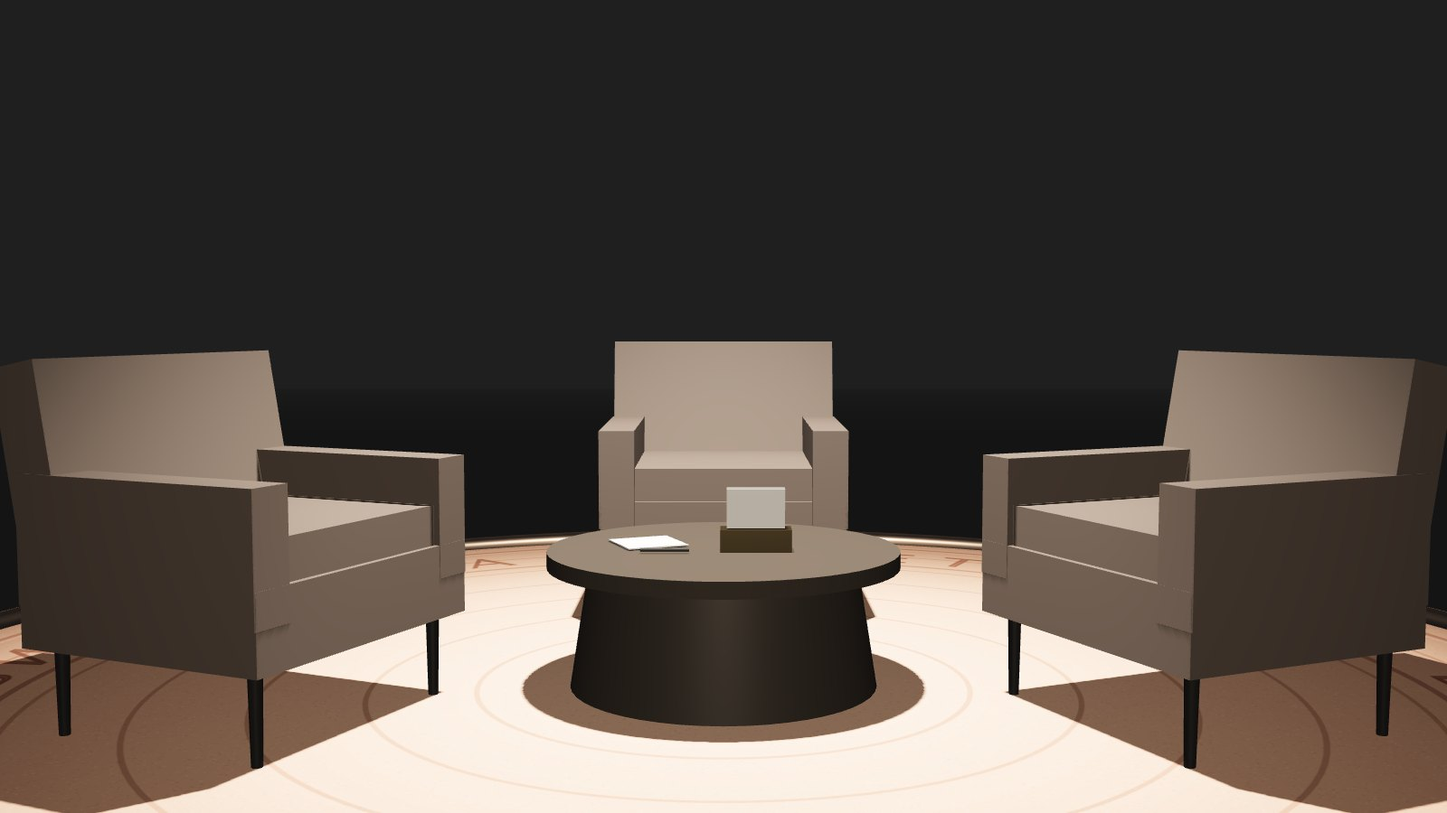
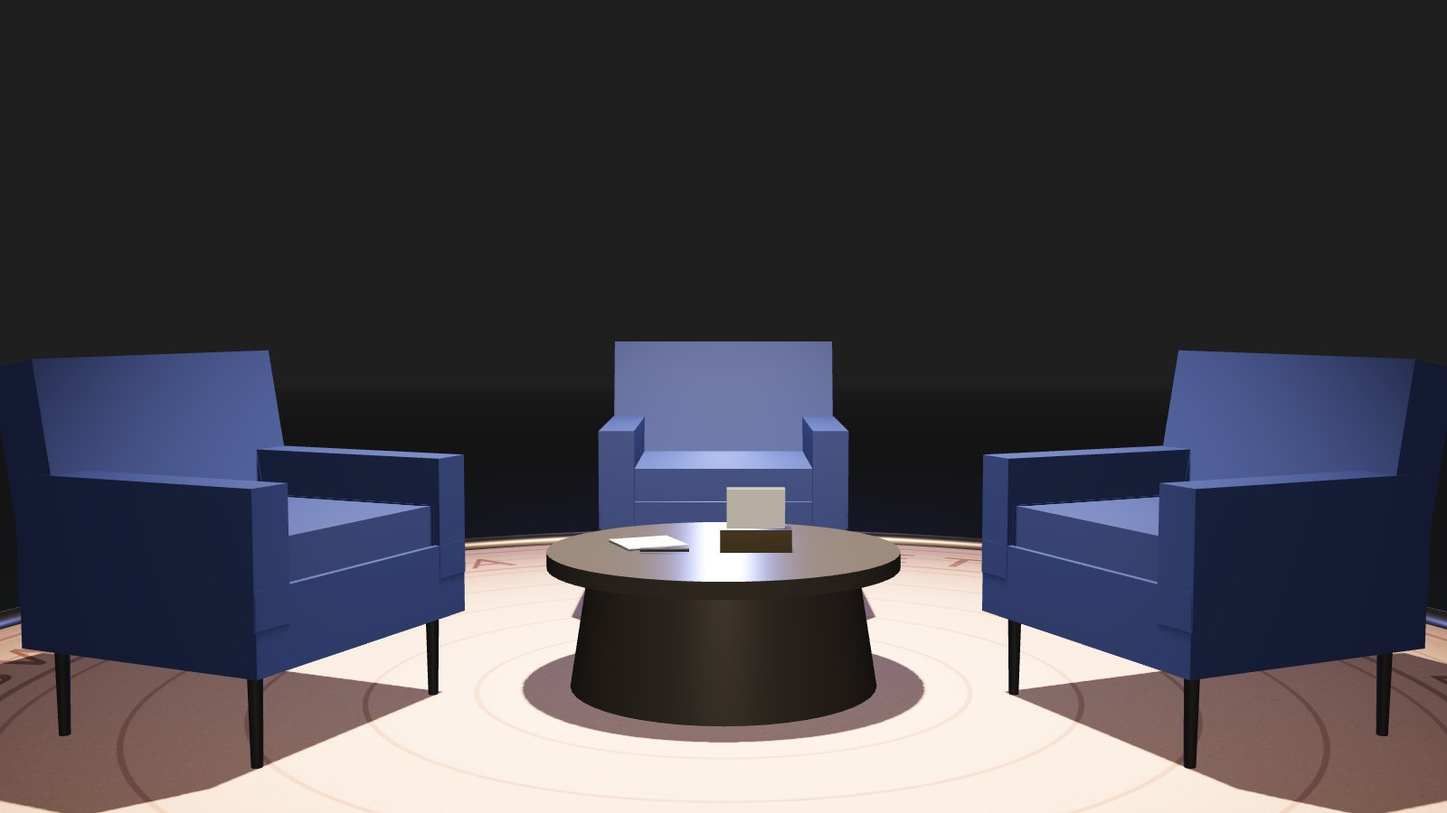
Чернила: светлая студия с синей дорожкой, синий в Кольце
Claude-Session: https://claude.ai/code/session_01JqA9mxb2UcCAa9NfNrfw51

diff --git a/index.html b/index.html
@@ -378,7 +378,7 @@ a:focus-visible{outline:2px solid var(--glow);outline-offset:3px;border-radius:6
   <p class="lead rv">В обеих концепциях Михаил и гость сидят в креслах лицом к камере, между ними журнальный столик с фирменной салфетницей шоу. Третье кресло стоит наготове для второго гостя. <b>Под каждый выпуск меняется то, что окружает разговор.</b></p>
   <div class="idx">
     <a class="rv" href="#ring"><img src="ring_kg.jpg" alt=""><span class="n">01</span><h3 style="font-family:var(--r-disp);font-weight:600">Кольцо</h3><p>Кольцо света над круглым подиумом, покрытие подиума меняется под гостя.</p></a>
-    <a class="rv" href="#ink"><img src="studio.jpg" alt="" style="filter:brightness(.7) saturate(.8)"><span class="n">02</span><h3 style="font-family:var(--r-hand);font-weight:700;font-size:56px;color:#a9bbff">Чернила</h3><p>Текущая студия: фирменный синий становится цветом чернил, на стене подписанные салфетки гостей.</p></a>
+    <a class="rv" href="#ink"><img src="ink_wide.jpg" alt=""><span class="n">02</span><h3 style="font-family:var(--r-hand);font-weight:700;font-size:56px;color:#a9bbff">Чернила</h3><p>Светлая симметричная студия и одна синяя дорожка цвета чернил через весь кадр.</p></a>
   </div>
   <div class="two block">
     <div><div class="eyebrow rv">Общий предмет</div><h3 class="rv" style="margin-top:14px">Салфетница шоу.</h3></div>
@@ -438,9 +438,9 @@ a:focus-visible{outline:2px solid var(--glow);outline-offset:3px;border-radius:6
       <h3 class="h3 rv">Номера совпадают с точками на 3D схеме.</h3>
       <div class="legend">
         <div class="rv"><i>1</i><div><h4>Световое кольцо</h4><p>Около 4 м в диаметре, теплый свет 3200К, висит на высоте 3,5 м.</p></div></div>
-        <div class="rv"><i>2</i><div><h4>Сменный подиум</h4><p>Круглая платформа 5,5 м и высотой 18 см. Покрытие собирается из сменных секторов.</p></div></div>
+        <div class="rv"><i>2</i><div><h4>Сменный подиум</h4><p>Круглая платформа 5,5 м и высотой 18 см. Покрытие собирается из сменных секторов, обод глубокого фирменного синего, по полу вокруг идет тонкая линия синего света.</p></div></div>
         <div class="rv"><i>3</i><div><h4>Столик и салфетница</h4><p>Низкий круглый столик, на нем латунная салфетница шоу.</p></div></div>
-        <div class="rv"><i>4</i><div><h4>Кресла</h4><p>Два кресла развернуты друг к другу и к камере. Третье стоит у дальнего края, когда гостей двое.</p></div></div>
+        <div class="rv"><i>4</i><div><h4>Кресла</h4><p>Кресла в темно синем бархате. Два развернуты друг к другу и к камере. Третье стоит у дальнего края, когда гостей двое.</p></div></div>
         <div class="rv"><i>5</i><div><h4>Черный пол</h4><p>Полированное покрытие вокруг подиума отражает кольцо и дает залу глубину.</p></div></div>
         <div class="rv"><i class="c">A</i><div><h4>Камеры</h4><p>A общий план, B и C крупные планы, D сверху над столиком, E вертикаль для shorts.</p></div></div>
       </div>
@@ -488,7 +488,7 @@ a:focus-visible{outline:2px solid var(--glow);outline-offset:3px;border-radius:6
           <div class="spec rv"><span class="aa" style="font-family:var(--r-text);font-weight:600">Аа</span><span class="nm">Onest</span><p>Плашки, роли, субтитры. Спокойный гротеск, хорошо читается на телевизоре.</p></div>
           <div class="spec rv"><span class="aa" style="font-family:var(--r-hand);font-weight:700;color:var(--glow)">245</span><span class="nm">Caveat</span><p>Только цифры. Почерк повторяет запись Михаила на салфетке.</p></div>
         </div>
-        <div class="spec rv"><span class="nm">Палитра</span><div class="pal"><span><i style="background:#0b0b0c"></i>Ночь #0B0B0C</span><span><i style="background:#ffe4c4"></i>Свет #FFE4C4</span><span><i style="background:#ffd29a"></i>Накал #FFD29A</span><span><i style="background:#8e8b85"></i>Пепел #8E8B85</span><span><i style="background:#e6b49c"></i>Цвет гостя</span></div><p>Цвет гостя живет только на подиуме. Графика всегда остается в цветах света.</p></div>
+        <div class="spec rv"><span class="nm">Палитра</span><div class="pal"><span><i style="background:#0b0b0c"></i>Ночь #0B0B0C</span><span><i style="background:#ffe4c4"></i>Свет #FFE4C4</span><span><i style="background:#ffd29a"></i>Накал #FFD29A</span><span><i style="background:#0c1a66"></i>Синий шоу #0C1A66</span><span><i style="background:#e6b49c"></i>Цвет гостя</span></div><p>Цвет гостя живет только на подиуме. Графика всегда остается в цветах света.</p></div>
       </div>
       <div class="frames">
         <div class="fr rv"><div class="scr anim"><img src="ring_kg_two.jpg" alt=""><div class="r-lt"><svg viewBox="0 0 60 60"><circle cx="30" cy="30" r="25"/></svg><div class="txt"><div class="nm">Катя Голден</div><div class="rl">телеведущая, основательница бьюти бренда</div></div></div></div><p class="t"><b>Плашка гостя.</b> Кольцо прорисовывается, имя выезжает следом. Без подложки, только свет и текст.</p></div>
@@ -550,39 +550,50 @@ a:focus-visible{outline:2px solid var(--glow);outline-offset:3px;border-radius:6
   <header class="ch-head wrap">
     <div class="n rv">НАПРАВЛЕНИЕ 02</div>
     <h2 class="rv">Чернила</h2>
-    <p class="thesis rv"><b>Студия остается, фирменный синий становится цветом чернил.</b> Сохраняем логотип, шрифт, сине белую палитру и бумажную концепцию. Меняем свет, декор и графику.</p>
+    <p class="thesis rv"><b>Светлая студия и одна синяя линия чернил через весь кадр.</b> Фирменная сине белая палитра, логотип и рукописные заметки шоу собраны в спокойную симметричную композицию.</p>
   </header>
-  <div class="wrap"><div class="ink-scene rv">
-    <img src="studio.jpg" alt="Текущая студия шоу в синем свете">
-    <div class="tint"></div>
-    <span class="pt" style="left:50%;top:14%">1</span>
-    <span class="pt" style="left:18%;top:30%">2</span>
-    <span class="pt" style="left:50%;top:78%">3</span>
-    <span class="pt" style="left:82%;top:40%">4</span>
-    <span class="pt" style="left:30%;top:62%">5</span>
-    <span class="tag">Набросок на кадре текущей студии</span>
-  </div><p class="stage-note">Точки на кадре совпадают с номерами в списке ниже.</p></div>
+  <div class="wrap"><div class="stage rv" data-scene="ink" aria-label="3D схема сета Чернила, перетаскивайте для поворота">
+    <div class="chips variants" role="group" aria-label="Записи на полу под гостя">
+      <button type="button" data-v="3" aria-pressed="false"><i style="background:#eeb7a6"></i>Катя Голден</button>
+      <button type="button" data-v="0" aria-pressed="true"><i style="background:#1d3592"></i>Базовый</button>
+      <button type="button" data-v="1" aria-pressed="false"><i style="background:#f29dbd"></i>Frambini</button>
+      <button type="button" data-v="2" aria-pressed="false"><i style="background:#8e8b85"></i>Пулково</button>
+    </div>
+    <div class="chips seats" role="group" aria-label="Количество кресел"><button type="button" data-s="2" aria-pressed="true">2 кресла</button><button type="button" data-s="3" aria-pressed="false">3 кресла</button></div>
+    <div class="hud"><span><i></i>элементы сета</span><span><i class="c"></i>камеры</span></div>
+  </div><p class="stage-note">Переключайте гостей сверху и число кресел внизу. Схему можно вращать. Белые точки отмечают элементы сета, синие камеры.</p></div>
 
   <section class="wrap" style="padding-top:clamp(64px,9vw,110px)"><div class="in">
     <div class="two">
-      <div><div class="eyebrow rv">Идея</div><h3 class="rv" style="margin-top:14px">Синий цвет шоу превращается в цвет шариковой ручки.</h3></div>
+      <div><div class="eyebrow rv">Идея</div><h3 class="rv" style="margin-top:14px">Белая салфетка и одна линия синих чернил.</h3></div>
       <div class="prose rv">
-        <p>Главный предмет шоу уже есть: салфетка, на которой гость пишет от руки. Самые знакомые всем синие на белом это чернила шариковой ручки. <b>Фирменная сине белая палитра шоу остается и получает понятный зрителю смысл: синие чернила на белой салфетке.</b></p>
-        <p>Мебель, планировку и логотип мы сохраняем. Студия уходит в полумрак, лица освещает теплый свет, фон получает глубокий синий свет цвета чернил. Стену за собеседниками занимают салфетки, подписанные гостями прошлых выпусков.</p>
-        <p>Работы немного: свет, рамы, несколько предметов и обновленная графика. Перестройка студии не нужна.</p>
+        <p>Фирменные цвета шоу синий и белый. Самое знакомое всем сочетание синего и белого это линия шариковой ручки на салфетке. <b>Студия становится белой салфеткой, через которую проходит одна синяя линия: дорожка цвета чернил, на которой стоят кресла.</b></p>
+        <p>Комната светлая и теплая: молочные шторы по кругу, светлый пол, мягкий дневной свет. Композиция строго симметричная, как в кадре шахматного поединка: два кресла лицом друг к другу, между ними столик с именами собеседников. Пальмы из текущей студии остаются, но переезжают в белые вазоны по краям кадра.</p>
+        <p>Синий в кадре только один и глубокий, цвета чернил. Он работает акцентом на белом и не превращает студию в синюю комнату, поэтому не напоминает ВК.</p>
       </div>
     </div>
 
     <div class="block">
-      <div class="eyebrow rv">Что меняем</div>
-      <h3 class="h3 rv">Пять точечных усилений.</h3>
+      <div class="eyebrow rv">Устройство сета</div>
+      <h3 class="h3 rv">Номера совпадают с точками на 3D схеме.</h3>
       <div class="legend">
-        <div class="rv"><i>1</i><div><h4>Свет</h4><p>Теплый рисующий свет на лица, глубокий синий контровой свет на фон. Студия выглядит дороже без новой мебели.</p></div></div>
-        <div class="rv"><i>2</i><div><h4>Стена салфеток</h4><p>Подписанные гостями салфетки в одинаковых рамах. С каждым выпуском стена растет и превращается в архив шоу.</p></div></div>
-        <div class="rv"><i>3</i><div><h4>Столик и салфетница</h4><p>Латунная салфетница с гравировкой и синяя ручка рядом. Михаил достает салфетку, когда просит гостя записать цифру.</p></div></div>
-        <div class="rv"><i>4</i><div><h4>Синий акцент в декоре</h4><p>Кобальтовое стекло или керамика на полках, глубокий синий текстиль. Оттенок чернил, глубже и темнее интерфейсного синего.</p></div></div>
-        <div class="rv"><i>5</i><div><h4>Подсветка логотипа</h4><p>Фирменный логотип остается на месте и получает мягкую синюю подсветку.</p></div></div>
-        <div class="rv"><i class="c">A</i><div><h4>Камеры</h4><p>Добавляем камеру сверху на столик, чтобы показывать запись на салфетке крупно.</p></div></div>
+        <div class="rv"><i>1</i><div><h4>Синяя дорожка</h4><p>Ковровая дорожка глубокого чернильного цвета шириной 1,5 м через весь кадр, по краям тонкая белая строчка.</p></div></div>
+        <div class="rv"><i>2</i><div><h4>Таблички с именами</h4><p>На передней грани столика имена Михаила и гостя синими чернилами. Меняются под каждого гостя и сразу представляют собеседников.</p></div></div>
+        <div class="rv"><i>3</i><div><h4>Столик и салфетница</h4><p>Низкий белый столик, латунная салфетница с салфетками и синяя ручка.</p></div></div>
+        <div class="rv"><i>4</i><div><h4>Пальмы в белых вазонах</h4><p>Знакомые зрителю пальмы стоят симметрично по краям и держат баланс кадра.</p></div></div>
+        <div class="rv"><i>5</i><div><h4>Молочные шторы</h4><p>Мягкие складки по кругу, светлый пол. Логотип шоу появляется в графике и на салфетнице.</p></div></div>
+        <div class="rv"><i class="c">A</i><div><h4>Камеры</h4><p>A общий симметричный план, B и C крупные планы, D сверху на дорожку и столик, E вертикаль для shorts.</p></div></div>
+      </div>
+    </div>
+
+    <div class="block">
+      <div class="eyebrow rv">Под каждого гостя</div>
+      <h3 class="h3 rv">Студия та же, имена на столике новые.</h3>
+      <div class="gal">
+        <figure class="rv"><img src="ink_wide.jpg" alt="Светлая студия с синей дорожкой"><figcaption><b>Общий план.</b> Синяя дорожка через светлую студию.</figcaption></figure>
+        <figure class="rv"><img src="ink_top.jpg" alt="Вид сверху на синюю дорожку"><figcaption><b>Вид сверху.</b> Линия чернил, кресла и столик, готовая обложка.</figcaption></figure>
+        <figure class="rv"><img src="ink_kg.jpg" alt="Студия Чернила в выпуске с Катей Голден"><figcaption><b>Катя Голден.</b> Симметричный общий план, имена на столике.</figcaption></figure>
+        <figure class="rv"><img src="ink_two.jpg" alt="Столик с табличками имен"><figcaption><b>Frambini.</b> Таблички с именами крупно.</figcaption></figure>
       </div>
     </div>
 
@@ -599,7 +610,7 @@ a:focus-visible{outline:2px solid var(--glow);outline-offset:3px;border-radius:6
       <div class="eyebrow rv">Как идет выпуск</div>
       <div class="flow">
         <div class="rv"><span class="t">00:00</span><h4>Фраза гостя</h4><p>Выпуск открывается главной фразой гостя. На экране она появляется синими чернилами, как запись от руки.</p></div>
-        <div class="rv"><span class="t">00:08</span><h4>Разговор</h4><p>Собеседники в знакомых креслах, за ними стена подписанных салфеток.</p></div>
+        <div class="rv"><span class="t">00:08</span><h4>Разговор</h4><p>Собеседники на синей дорожке в симметричном светлом кадре.</p></div>
         <div class="rv"><span class="t">Цифры</span><h4>Запись на салфетке</h4><p>Михаил записывает цифру, камера сверху показывает ее крупно.</p></div>
         <div class="rv"><span class="t">Финал</span><h4>Салфетка на стену</h4><p>Гость подписывает салфетку с тремя факторами успеха, и она отправляется в раму на стене.</p></div>
       </div>
@@ -609,8 +620,8 @@ a:focus-visible{outline:2px solid var(--glow);outline-offset:3px;border-radius:6
       <div class="eyebrow rv">Графика</div>
       <h3 class="h3 rv">Фирменный шрифт и логотип плюс рукописные чернила.</h3>
       <div class="frames">
-        <div class="fr rv"><div class="scr anim"><img src="studio.jpg" alt="" style="filter:brightness(.7) saturate(.8)"><div class="i-lt"><div class="nm">Катя Голден</div><div class="rl">телеведущая, основательница бьюти бренда</div></div></div><p class="t"><b>Плашка гостя.</b> Белая карточка салфетки, имя синими чернилами, роль фирменным шрифтом.</p></div>
-        <div class="fr rv"><div class="scr anim"><img src="studio.jpg" alt="" style="filter:brightness(.55) saturate(.7)"><div class="dark" style="background:rgba(16,29,82,.45)"></div><div class="i-num"><div class="v">245 млрд</div><div class="c">выручка «Рольфа» за год</div></div></div><p class="t"><b>Цифра.</b> Почерком синими чернилами, как на салфетке.</p></div>
+        <div class="fr rv"><div class="scr anim"><img src="ink_two.jpg" alt=""><div class="i-lt"><div class="nm">Катя Голден</div><div class="rl">телеведущая, основательница бьюти бренда</div></div></div><p class="t"><b>Плашка гостя.</b> Белая карточка салфетки, имя синими чернилами, роль фирменным шрифтом.</p></div>
+        <div class="fr rv"><div class="scr anim"><img src="ink_wide.jpg" alt=""><div class="dark" style="background:rgba(8,14,40,.45)"></div><div class="i-num"><div class="v">245 млрд</div><div class="c">выручка «Рольфа» за год</div></div></div><p class="t"><b>Цифра.</b> Почерком синими чернилами, как на салфетке.</p></div>
       </div>
     </div>
 
@@ -618,7 +629,7 @@ a:focus-visible{outline:2px solid var(--glow);outline-offset:3px;border-radius:6
       <div class="eyebrow rv">Ответ на разбор</div>
       <h3 class="h3 rv">Как «Чернила» закрывают шесть слабых мест.</h3>
       <div class="fix">
-        <div class="rv"><span class="was">Локация<span>Студия без хозяина</span></span><p>Стена подписанных салфеток превращает студию в дом шоу с собственной историей.</p></div>
+        <div class="rv"><span class="was">Локация<span>Студия без хозяина</span></span><p>Студия построена из образа шоу: белая салфетка и линия синих чернил, имена собеседников на столике.</p></div>
         <div class="rv"><span class="was">Шрифты<span>Четыре стиля</span></span><p>Два голоса: фирменный шрифт шоу для подписей и рукописные синие чернила для цифр и фраз.</p></div>
         <div class="rv"><span class="was">Графика<span>Тетрадь и текст без стиля</span></span><p>Тетрадный лист меняем на салфетку, вся графика держится на синем и белом.</p></div>
         <div class="rv"><span class="was">Голос<span>Тихий закадр</span></span><p>Уверенная подача и звуковой логотип: скрип ручки по бумаге.</p></div>
@@ -628,7 +639,7 @@ a:focus-visible{outline:2px solid var(--glow);outline-offset:3px;border-radius:6
     </div>
 
     <div class="risk rv">
-      <div><span class="lab">Бюджет</span><p>Свет, рамы, салфетница, несколько предметов декора и обновление графики. Мебель и планировка остаются.</p></div>
+      <div><span class="lab">Бюджет</span><p>Шторы, дорожка, столик, вазоны и свет. Пальмы и кресла можно взять из текущей студии, под гостя меняются только таблички.</p></div>
       <div><span class="lab">Узнаваемость</span><p>Логотип, шрифт и палитра остаются прежними, зритель узнает шоу с первого кадра.</p></div>
     </div>
   </div></section>
@@ -640,11 +651,11 @@ a:focus-visible{outline:2px solid var(--glow);outline-offset:3px;border-radius:6
   <div class="cmp-wrap rv"><table class="cmp">
     <tr><th></th><th class="r">Кольцо</th><th class="p" style="font-family:var(--r-hand);font-weight:700;font-size:30px;letter-spacing:0;text-transform:none;color:#a9bbff">Чернила</th></tr>
     <tr><td>Главная сила</td><td>Статус, драматургия света, вид сверху</td><td>Узнаваемость сохраняется, картинка становится сильнее</td></tr>
-    <tr><td>Студия</td><td>Новый сет</td><td>Текущая студия с точечными усилениями</td></tr>
+    <tr><td>Студия</td><td>Новый сет</td><td>Новый сет из айдентики шоу</td></tr>
     <tr><td>Айдентика</td><td>Новая графика</td><td>Логотип, шрифт и сине белая палитра остаются</td></tr>
-    <tr><td>Что меняется под гостя</td><td>Покрытие подиума</td><td>Новая подписанная салфетка на стене</td></tr>
-    <tr><td>Бюджет</td><td>Постройка подиума и кольца</td><td>Свет, рамы, декор, графика</td></tr>
-    <tr><td>Срок запуска</td><td>Нужна постройка</td><td>Можно внедрять с ближайшего выпуска</td></tr>
+    <tr><td>Что меняется под гостя</td><td>Покрытие подиума</td><td>Таблички с именами на столике</td></tr>
+    <tr><td>Бюджет</td><td>Постройка подиума и кольца</td><td>Шторы, дорожка, столик, свет</td></tr>
+    <tr><td>Риск</td><td>Пустота на общем плане</td><td>Светлый кадр требует аккуратного света на лицах</td></tr>
   </table></div>
 </div></section>
 
@@ -681,7 +692,7 @@ a:focus-visible{outline:2px solid var(--glow);outline-offset:3px;border-radius:6
   const fio=new IntersectionObserver(es=>es.forEach(e=>{if(e.isIntersecting){e.target.classList.remove('play');void e.target.offsetWidth;e.target.classList.add('play')}}),{threshold:.55});
   document.querySelectorAll('.scr.anim').forEach(el=>fio.observe(el));
 
-  try{await Promise.race([document.fonts.load('40px "Tenor Sans"'),new Promise(r=>setTimeout(r,2500))])}catch(e){}
+  try{await Promise.race([Promise.all([document.fonts.load('40px "Tenor Sans"'),document.fonts.load('700 40px Caveat','Кучмент Frambini')]),new Promise(r=>setTimeout(r,2500))])}catch(e){}
   const stages=[...document.querySelectorAll('.stage')];
   if(!window.THREE||!window.SetScenes){stages.forEach(s=>{const f=document.createElement('div');f.className='fallback';f.textContent='3D схема загрузится при подключении к интернету';s.appendChild(f)});return}
   const T=THREE,reduce=matchMedia('(prefers-reduced-motion: reduce)').matches;

diff --git a/scenes.js b/scenes.js
@@ -60,7 +60,10 @@
     const pod=new T.Mesh(new T.CylinderGeometry(2.8,2.85,.18,128),[rim,podTop,rim]);pod.position.y=.09;pod.receiveShadow=true;scene.add(pod);
     const lip=new T.Mesh(new T.TorusGeometry(2.8,.05,16,160),rim);lip.rotation.x=Math.PI/2;lip.position.y=.18;scene.add(lip);
     const g=new T.Group();g.position.y=.18;scene.add(g);
-    const st=seats(g,0x2c2420);coffee(g);
+    const st=seats(g,0x0b1238);coffee(g);
+    const blueLine=new T.Mesh(new T.TorusGeometry(2.95,.025,12,200),new T.MeshBasicMaterial({color:0x4d6bff,toneMapped:false}));blueLine.rotation.x=Math.PI/2;blueLine.position.y=.01;scene.add(blueLine);
+    const blueGlow=new T.Mesh(new T.RingGeometry(2.86,3.6,160),new T.MeshBasicMaterial({color:0x2a46d8,transparent:true,opacity:.09,blending:T.AdditiveBlending,depthWrite:false}));blueGlow.rotation.x=-Math.PI/2;blueGlow.position.y=.008;scene.add(blueGlow);
+    const bb=new T.PointLight(0x2f4cff,.9,10,1.6);bb.position.set(0,1.2,-4.5);scene.add(bb);
     const ringMat=new T.MeshBasicMaterial({color:0xfff0dc});
     const rg=new T.Mesh(new T.TorusGeometry(2.1,.045,16,160),ringMat);rg.rotation.x=Math.PI/2;rg.position.y=3.5;scene.add(rg);
     const glowMat=new T.MeshBasicMaterial({color:0xffc98a,transparent:true,opacity:.2,blending:T.AdditiveBlending,depthWrite:false});
@@ -72,7 +75,7 @@
     anch.push({p:new T.Vector3(2.1,3.5,0),t:'1'},{p:new T.Vector3(-2.2,.2,1.6),t:'2'},{p:new T.Vector3(0,.66,.22),t:'3'},{p:new T.Vector3(-1.35,1.25,.35),t:'4'},{p:new T.Vector3(3.8,0,-1.4),t:'5'});
     cams(scene,anch);
     const kinds=['carpet','asphalt','oak','board','powder'],cache={};
-    const rimCols=[0x161618,0x161618,0x161618,0x161618,0xd9a27e];
+    const rimCols=[0x0c1a66,0x0c1a66,0x0c1a66,0x0c1a66,0xd9a27e];
     function variant(i){const k=kinds[i];podTop.map=cache[k]||(cache[k]=tex(k));podTop.roughness=[1,.95,.45,.3,.95][i];podTop.metalness=i===3?.3:0;podTop.needsUpdate=true;
       rim.color.setHex(rimCols[i]);rim.metalness=i===4?1:0;rim.roughness=i===4?.25:.4;rim.needsUpdate=true}
     variant(0);
@@ -121,5 +124,62 @@
       settle(){cur.copy(cols[target]);apply(cur);auto=false}};
   }
 
-  window.SetScenes={ring,paper};
+
+  function inkTex(who){return cv(2048,2048,(x,w,h)=>{
+    x.fillStyle='#f4f1ea';x.fillRect(0,0,w,h);
+    for(let i=0;i<9000;i++){x.fillStyle='rgba(0,0,0,'+(Math.random()*.025)+')';x.fillRect(Math.random()*w,Math.random()*h,2,2)}
+    x.strokeStyle='rgba(120,130,170,.22)';x.lineWidth=6;x.strokeRect(150,150,w-300,h-300);x.lineWidth=2;x.strokeRect(190,190,w-380,h-380);
+    x.fillStyle='rgba(120,130,170,.2)';for(let i=230;i<w-230;i+=46){[[i,170],[i,h-170],[170,i],[w-170,i]].forEach(([a,b])=>{x.beginPath();x.arc(a,b,6,0,7);x.fill()})}
+    const ink='#1d3592';x.fillStyle=ink;x.strokeStyle=ink;x.lineCap='round';x.textAlign='center';
+    x.font='700 150px Caveat, "Comic Sans MS", cursive';x.fillText(who[0],w/2,h-520);
+    x.lineWidth=10;x.beginPath();x.moveTo(w/2-520,h-470);x.bezierCurveTo(w/2-200,h-500,w/2+200,h-440,w/2+520,h-480);x.stroke();
+    x.font='700 96px Caveat, "Comic Sans MS", cursive';x.fillText(who[1],w/2,h-330);
+    x.save();x.translate(420,620);x.rotate(-.12);x.font='700 110px Caveat, cursive';x.fillText('1.',0,0);x.fillText('2.',0,150);x.fillText('3.',0,300);x.restore();
+    x.lineWidth=7;for(let k=0;k<3;k++){x.beginPath();x.moveTo(520,600+k*150-k*18);x.bezierCurveTo(700,560+k*150,860,640+k*150,1020,590+k*150);x.stroke()}
+    x.save();x.translate(w-560,700);x.rotate(.15);x.font='700 170px Caveat, cursive';x.fillText(who[2],0,0);x.lineWidth=8;x.beginPath();x.ellipse(0,-50,260,120,0,0,7);x.stroke();x.restore();
+  })}
+  function ink(scene,anch){
+    scene.add(new T.AmbientLight(0xfff4e8,.1));
+    scene.add(new T.HemisphereLight(0xfffaf2,0xb9b0a2,.18));
+    const floor=add(scene,new T.PlaneGeometry(40,40),M(0xd8d2c7,{r:.85}),0,0,0,false);floor.rotation.x=-Math.PI/2;
+    // curtains around: warm white folds
+    const cur=M(0xd3c9b8,{r:.95});[-1,1].forEach(sd=>{const sp=add(scene,new T.PlaneGeometry(10,5.2),cur,sd*6.6,2.6,0,false);sp.rotation.y=-sd*Math.PI/2});
+    const N=70,R=5.2;for(let i=0;i<N;i++){const th=Math.PI*.18+i/(N-1)*Math.PI*.64;const x=Math.cos(th)*R*1.35,z=-Math.sin(th)*R*.75;
+      const m=add(scene,new T.CylinderGeometry(.13,.13,5.2,10,1,false,0,Math.PI),cur,x,2.6,z,false);m.rotation.y=-th+Math.PI/2}
+    add(scene,new T.PlaneGeometry(16,5.2),cur,0,2.6,-4.05,false);
+    // blue runner: ink line across the floor
+    const runMat=M(0x0c1a66,{r:.95});
+    const run=add(scene,new T.PlaneGeometry(14,1.5),runMat,0,.012,.35,false);run.rotation.x=-Math.PI/2;
+    const edge=M(0xf4f1ea,{r:.9});[-.68,.68].forEach(dz=>{const e=add(scene,new T.PlaneGeometry(14,.025),edge,0,.014,.35+dz,false);e.rotation.x=-Math.PI/2});
+    const g=new T.Group();g.position.set(0,.015,.35);scene.add(g);
+    const stt=seats(g,0x0b1238);
+    // low table with name plaque
+    const white=M(0xf4f1ea,{r:.6});
+    add(g,new T.BoxGeometry(1.5,.08,.62),white,0,.44,0);
+    add(g,new T.BoxGeometry(1.42,.36,.5),white,0,.2,0);
+    const plate=new T.MeshStandardMaterial({roughness:.6});
+    const pl=add(g,new T.PlaneGeometry(1.42,.26),plate,0,.25,.252,false);
+    add(g,new T.BoxGeometry(.2,.06,.08),M(0xc49a4e,{r:.25,m:1}),.35,.51,0);
+    for(let i=0;i<3;i++){const nn=add(g,new T.BoxGeometry(.012,.1,.075),M(0xf6f3ec,{r:1}),.32+i*.025,.56,0);}
+    add(g,new T.CylinderGeometry(.012,.012,.16,8),M(0x1d3592,{r:.3}),-.3,.49,.08).rotation.z=Math.PI/2;
+    // palms in white urns, symmetric
+    const urnPts=[[0,0],[.28,0],[.3,.05],[.22,.12],[.26,.5],[.42,.78],[.46,.86],[.4,.88],[0,.88]].map(p=>new T.Vector2(p[0],p[1]));
+    const leaf=M(0x22391f,{r:.7,s:T.DoubleSide});
+    [-3.6,3.6].forEach(x=>{const u=add(scene,new T.LatheGeometry(urnPts,40),white,x,0,-1.6);
+      for(let k=0;k<11;k++){const a=k/11*Math.PI*2,tilt=.5+(k%3)*.25;const l=new T.Mesh(new T.SphereGeometry(1,10,6),leaf);l.scale.set(.55,.04,.13);
+        const grp=new T.Group();grp.position.set(x,1.25,-1.6);grp.rotation.y=a;l.position.set(.6,0,0);l.rotation.z=-tilt*.6;grp.add(l);l.castShadow=true;scene.add(grp)}
+      add(scene,new T.CylinderGeometry(.04,.05,.5,8),M(0x5a4632,{r:.8}),x,1.05,-1.6)});
+    // lights: soft daylight
+    const key=new T.SpotLight(0xfff3e4,.95,18,Math.PI/4,.8,1);key.position.set(2,6,6);key.target.position.set(0,.6,0);key.castShadow=true;key.shadow.mapSize.set(1536,1536);key.shadow.radius=4;scene.add(key,key.target);
+    const fill=new T.DirectionalLight(0xffffff,.18);fill.position.set(-4,4,3);scene.add(fill);
+    anch.push({p:new T.Vector3(4.4,.02,.35),t:'1'},{p:new T.Vector3(0,.27,.9),t:'2'},{p:new T.Vector3(0,.6,.35),t:'3'},{p:new T.Vector3(3.6,1.6,-1.6),t:'4'},{p:new T.Vector3(-1.6,3.2,-3.9),t:'5'});
+    cams(scene,anch);
+    const V=['Катя Голден','Frambini','Пулково','Катя Голден'],G=['ГОСТЬ ВЫПУСКА','ОСНОВАТЕЛЬ FRAMBINI','ГЛАВА ПУЛКОВО','КАТЯ ГОЛДЕН'],cache={};
+    function plTex(i){return cv(2048,376,(x,w,h)=>{x.fillStyle='#f4f1ea';x.fillRect(0,0,w,h);x.fillStyle='#1d3592';x.fillRect(w/2-3,40,6,h-80);x.textAlign='center';x.textBaseline='middle';
+      x.font='700 150px Caveat, "Comic Sans MS", cursive';x.fillText('Кучмент',w/4,h/2);x.fillText(i===0?'гость':V[i],w*3/4,h/2)})}
+    function variant(i){plate.map=cache[i]||(cache[i]=plTex(i));plate.needsUpdate=true}
+    variant(0);
+    return {variant,third:stt.third,tick(){},settle(){}};
+  }
+  window.SetScenes={ring,paper,ink};
 })();
